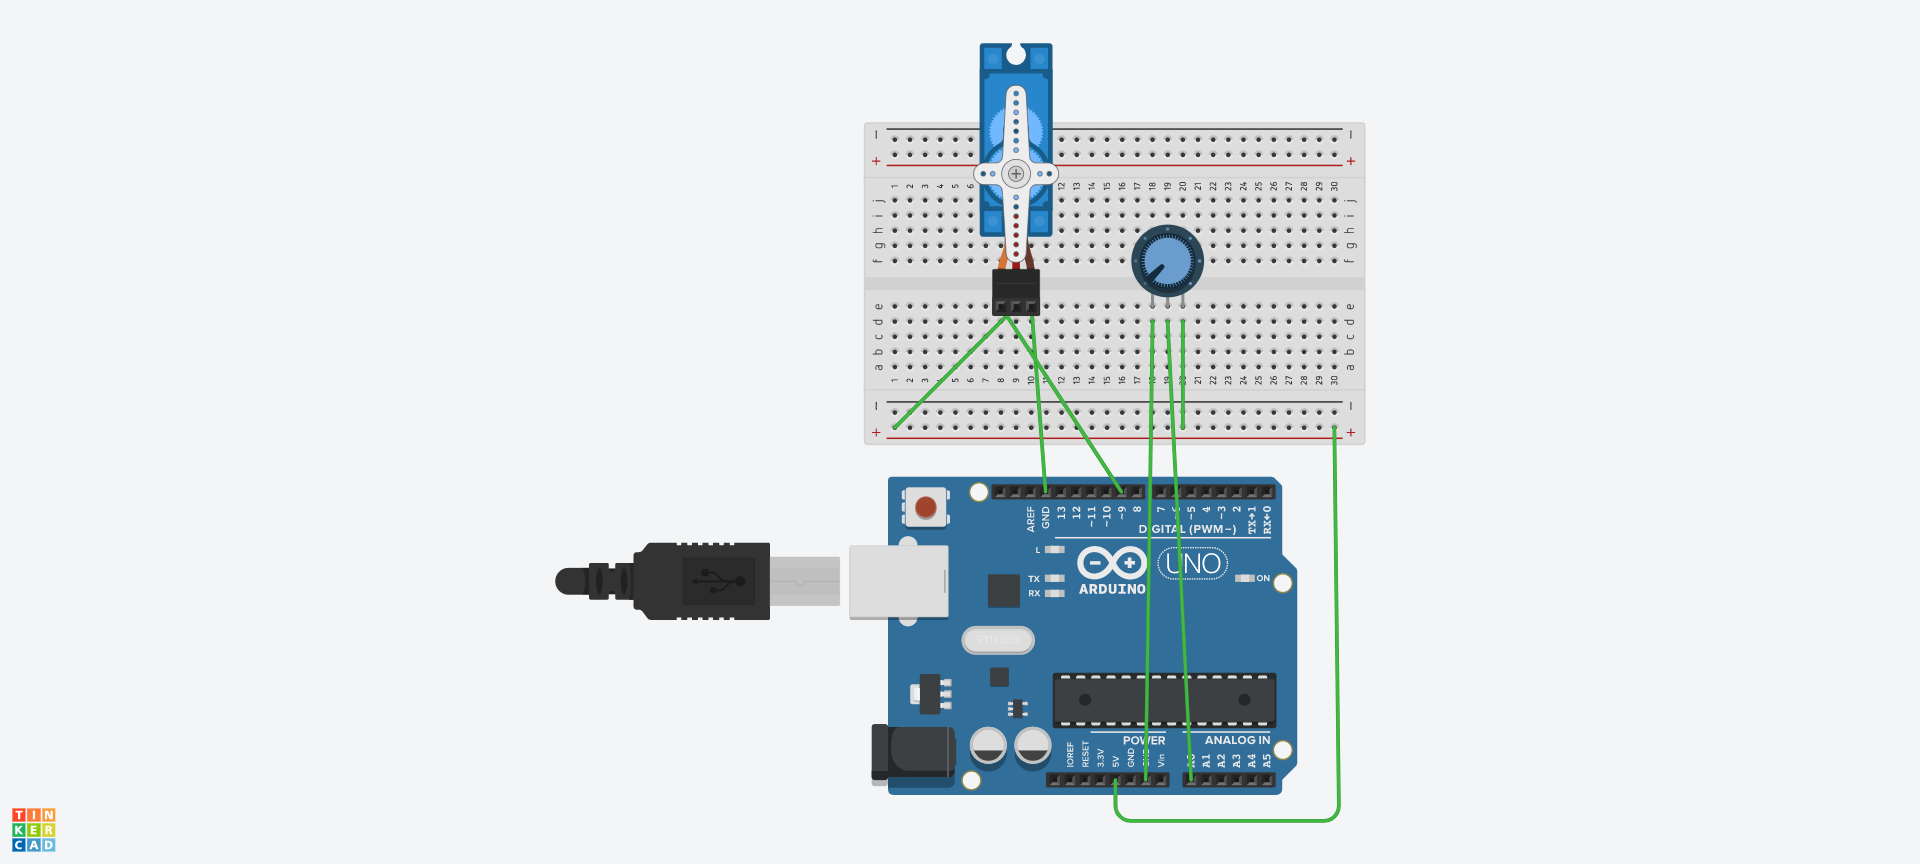
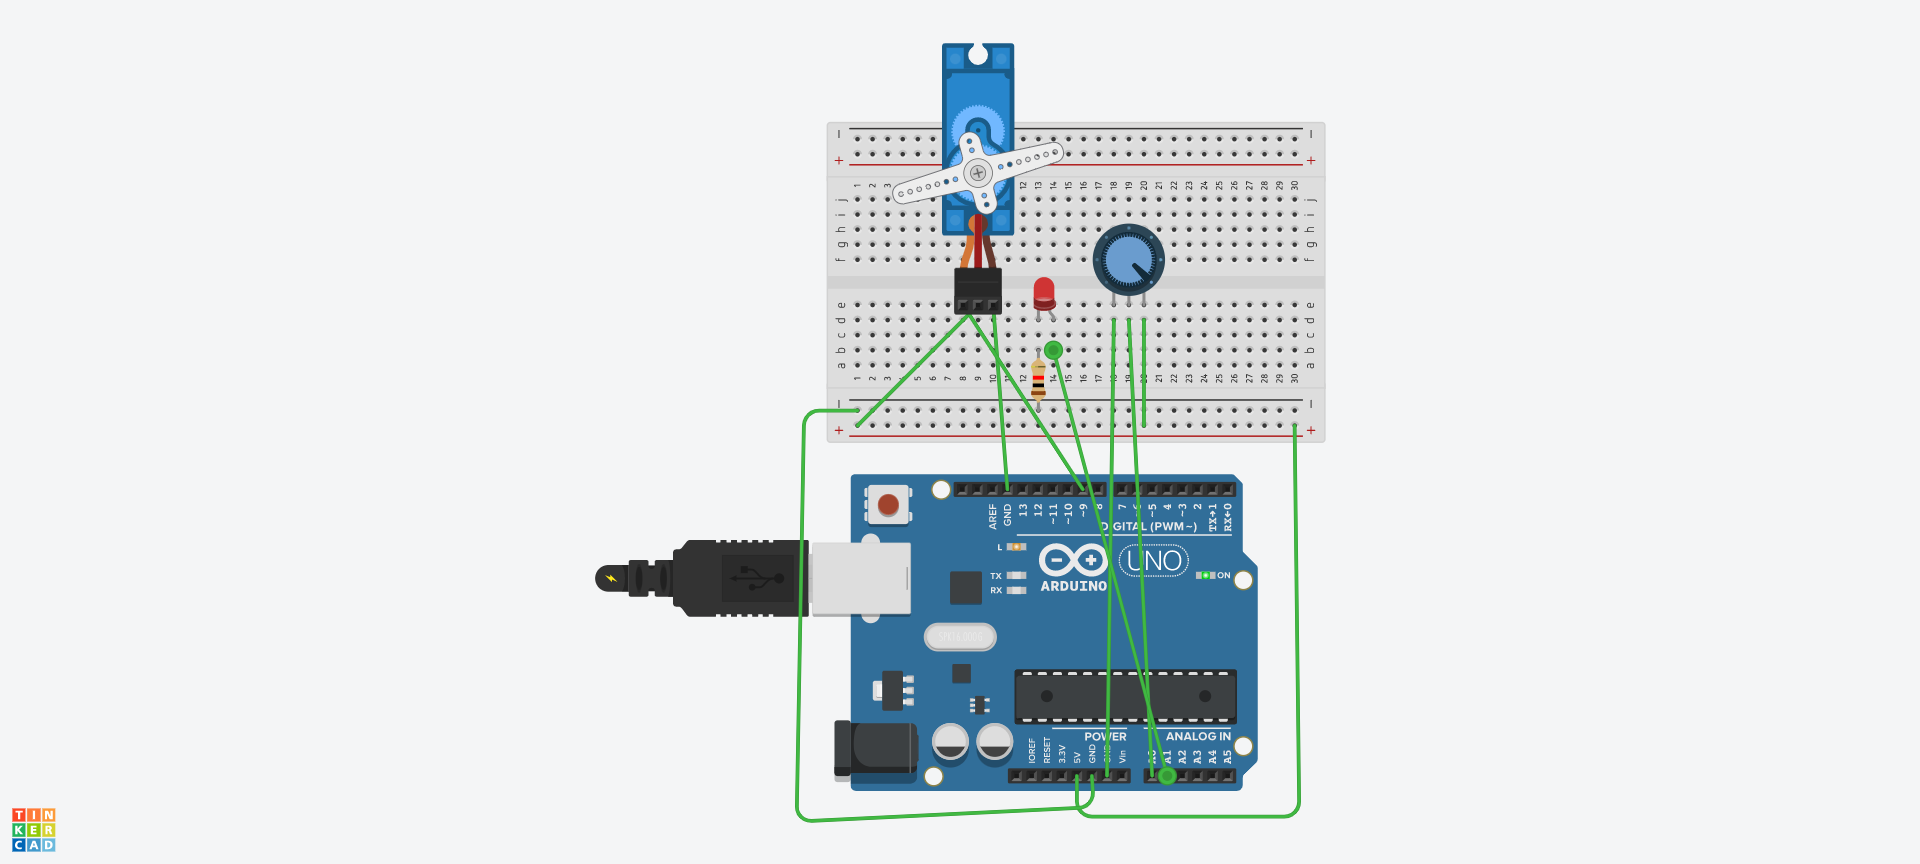
DAY4 ServoMoto added LED_ON modified finished

Changed region(s): [[0.2812, 0.0312, 0.7188, 0.9688]]

diff --git a/DAY4/README.md b/DAY4/README.md
@@ -11,10 +11,13 @@
 > [1] LED_ON의 베타테스크 blink 실행 <br>
 > [2] millis의 현재시점과 delay시점 측정 <br>
 > [3] LED_ON의 delay의 시점과 맞게 결합 <br>
-### ![ServoMoto](../image/millis_ServoMoto.png)
-#### 5. Analog_ServoMoto ~ millis_ServoMoto
+5. Analog_ServoMoto ~ millis_ServoMoto
 >[1] ServoMoto [millos blink Test]<br>
 >[2] 초기값, 앵글, delay(milis), Servo구조체, analogPin지정<br>
 >[3] setup의 pinMode와 servo.arrach()지정 <br>
 >[4] 현재시간, analogPin입력, ServoMoto angle 지정 및 angle 초기화<br>
 >[5] 인터럽트를 활용하여 delay 범위랑 angle 범위 지정 <br> 
+### ![ServoMoto](../image/millis_ServoMoto.png)
+#### 6. 최종본
+> [1] Analog_ServoMoto ~ millis_ServoMoto <br>
+> [2] Analog_LED_ON 단, 가변저항 받은 값으로 처리<br>
